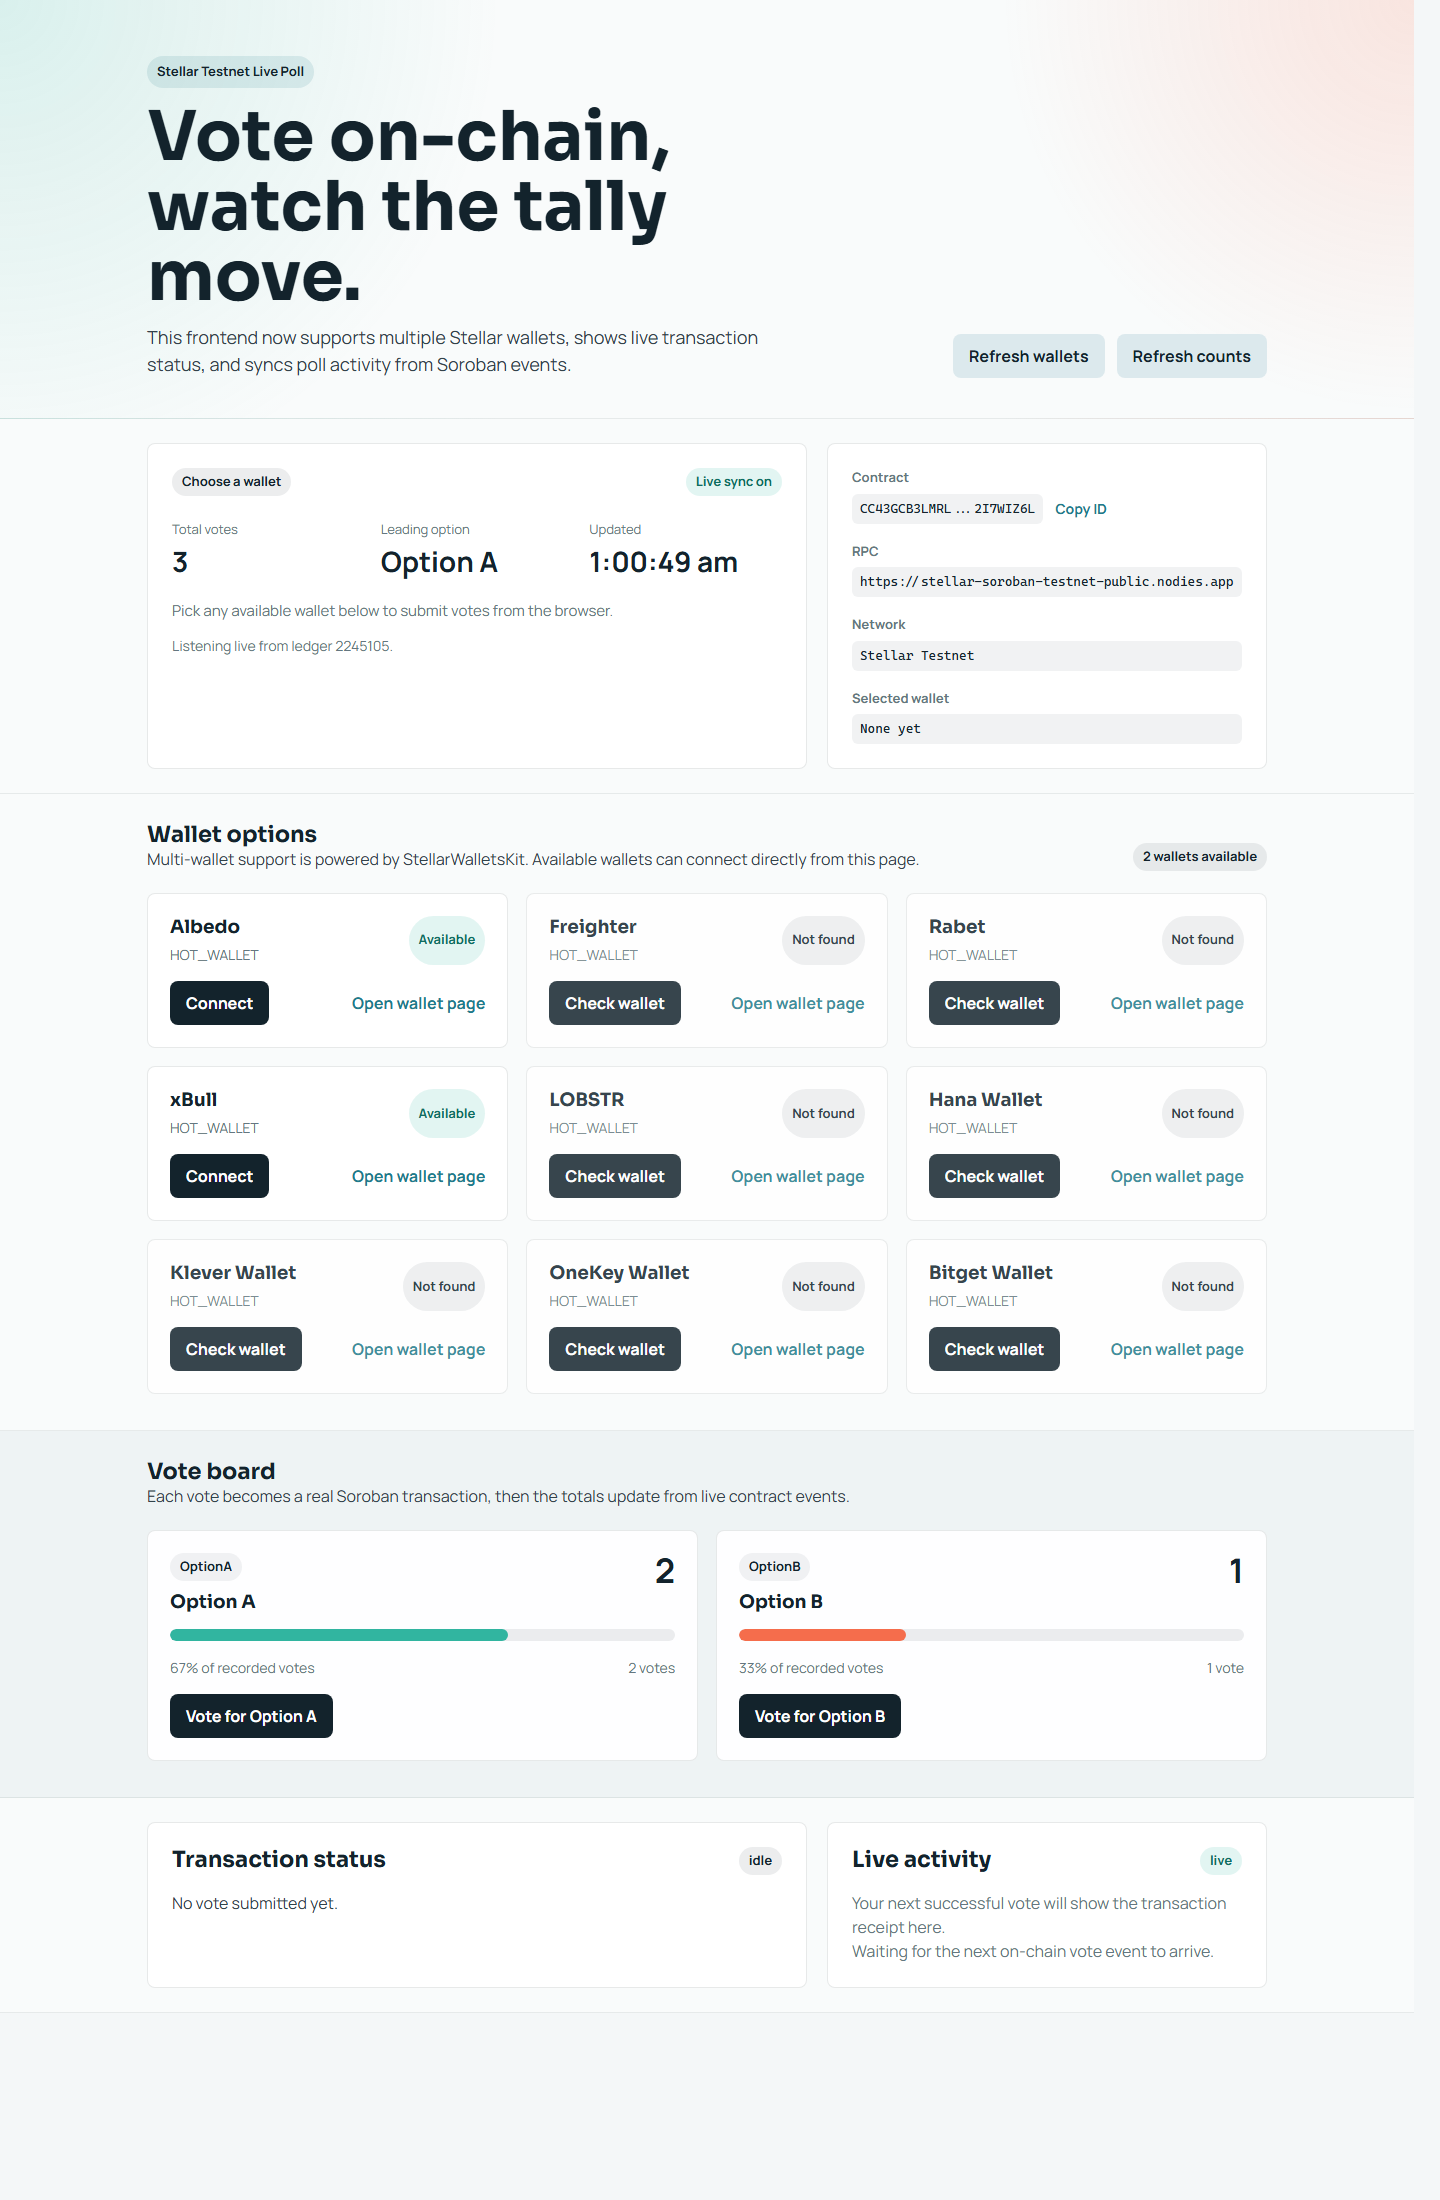
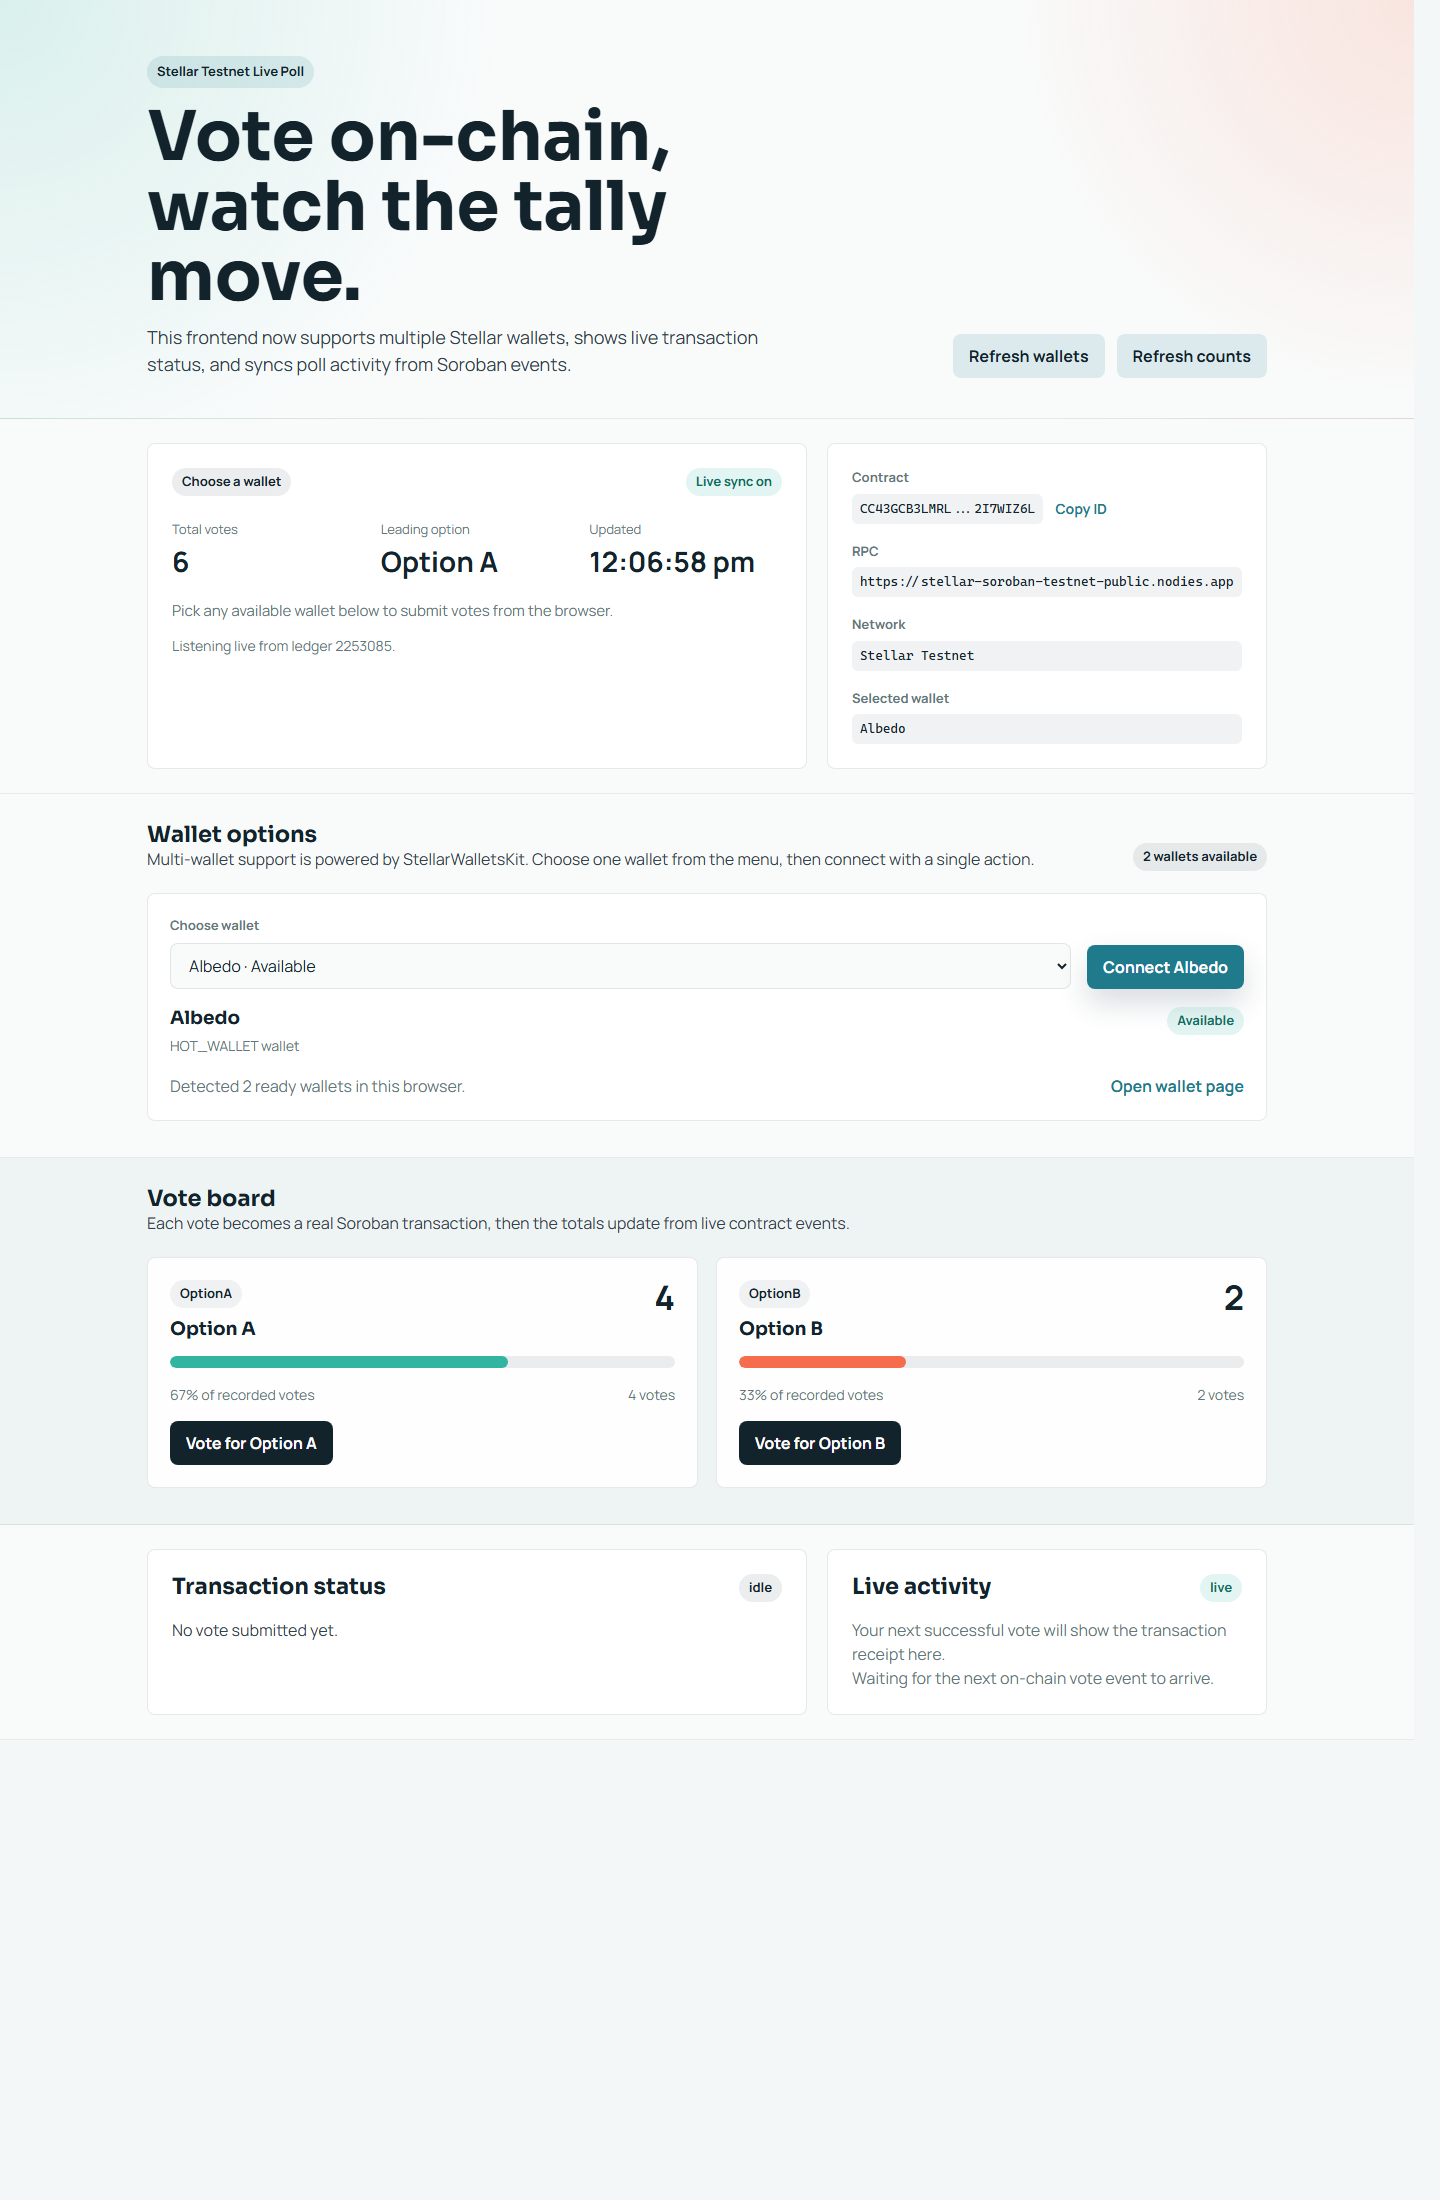
docs: refresh wallet selector README evidence

diff --git a/README.md b/README.md
@@ -36,9 +36,9 @@ This project satisfies the Level 2 live poll idea with:
 
 Optional public deployment: not deployed yet. Local HTTPS dev server runs at `https://localhost:5173/`.
 
-## Wallet Options Screenshot
+## Wallet Selector Screenshot
 
-![Wallet options](./docs/wallet-options.png)
+![Wallet selector](./docs/wallet-options.png)
 
 ## Local Setup
 
@@ -56,6 +56,7 @@ The Vite scripts use the native config loader so the app builds cleanly in this 
 ### Wallet
 
 Use any available Stellar wallet shown in the app and switch it to Testnet before voting.
+The wallet chooser uses one selector and one connect button so people can quickly switch between detected wallets.
 
 ### Contract
 
@@ -71,7 +72,7 @@ cargo build --target wasm32v1-none --release
 ## How To Use
 
 1. Open the app at `https://localhost:5173/`
-2. Choose an available wallet from the wallet list
+2. Choose an available wallet from the wallet selector
 3. Connect the wallet and confirm it is on Testnet
 4. Vote for `Option A` or `Option B`
 5. Watch the transaction status panel and the live event sync panel update
@@ -105,6 +106,6 @@ npm run build
 - Minimum 2 meaningful commits: prepared locally in this repo history
 - README includes:
   - setup instructions
-  - wallet options screenshot
+  - wallet selector screenshot
   - deployed contract address
   - verifiable contract call transaction hash
